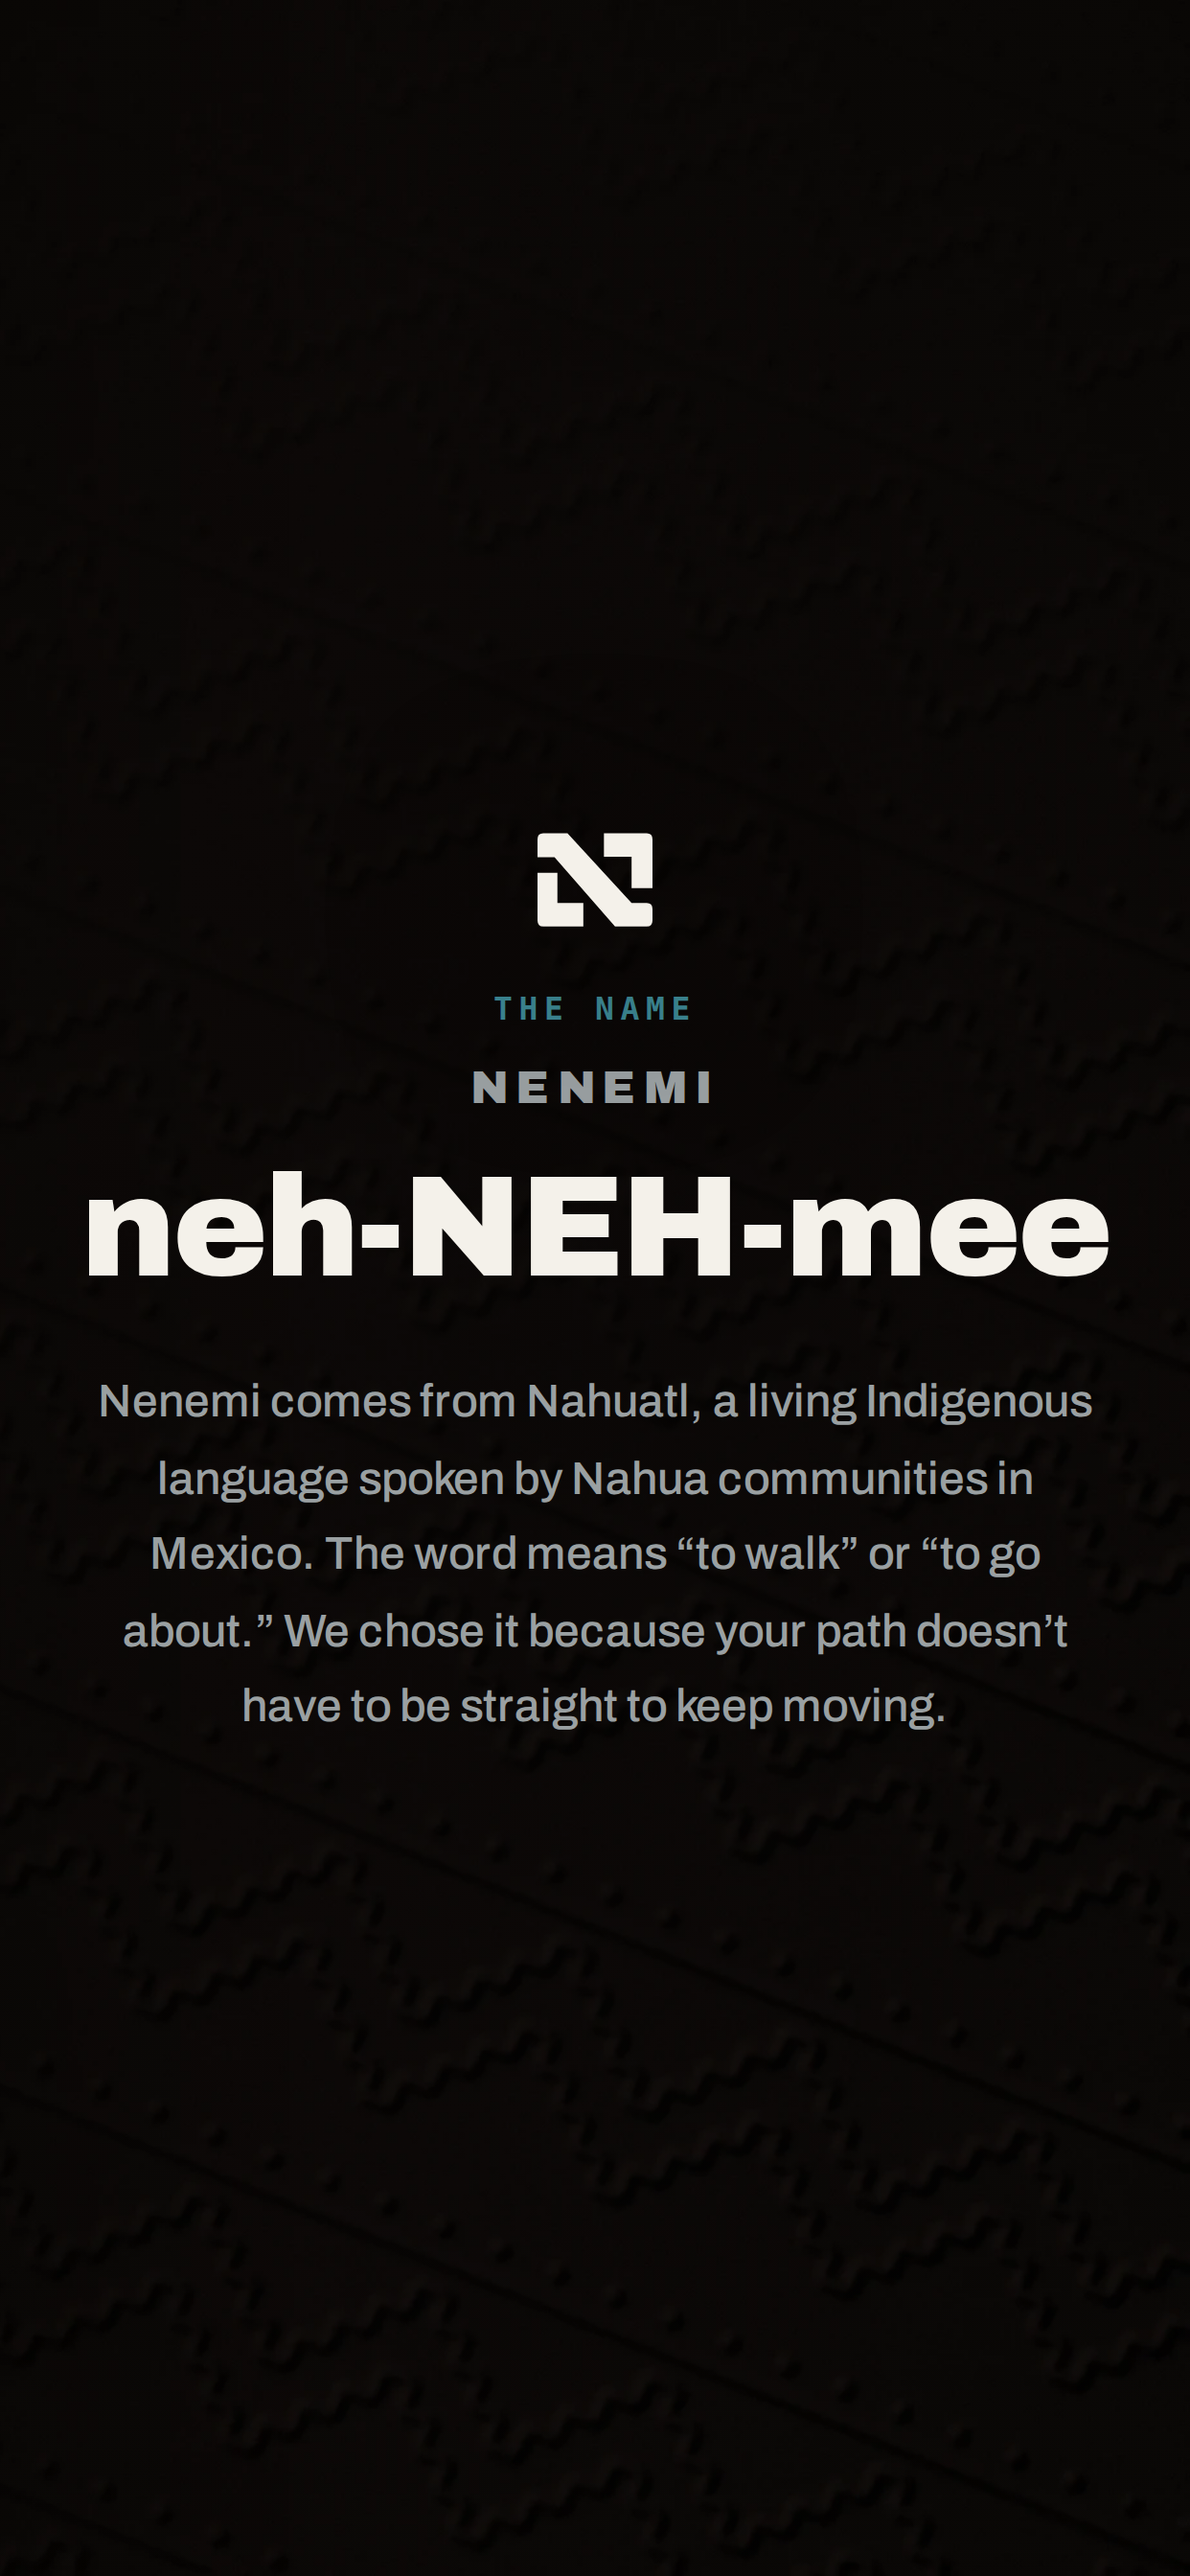
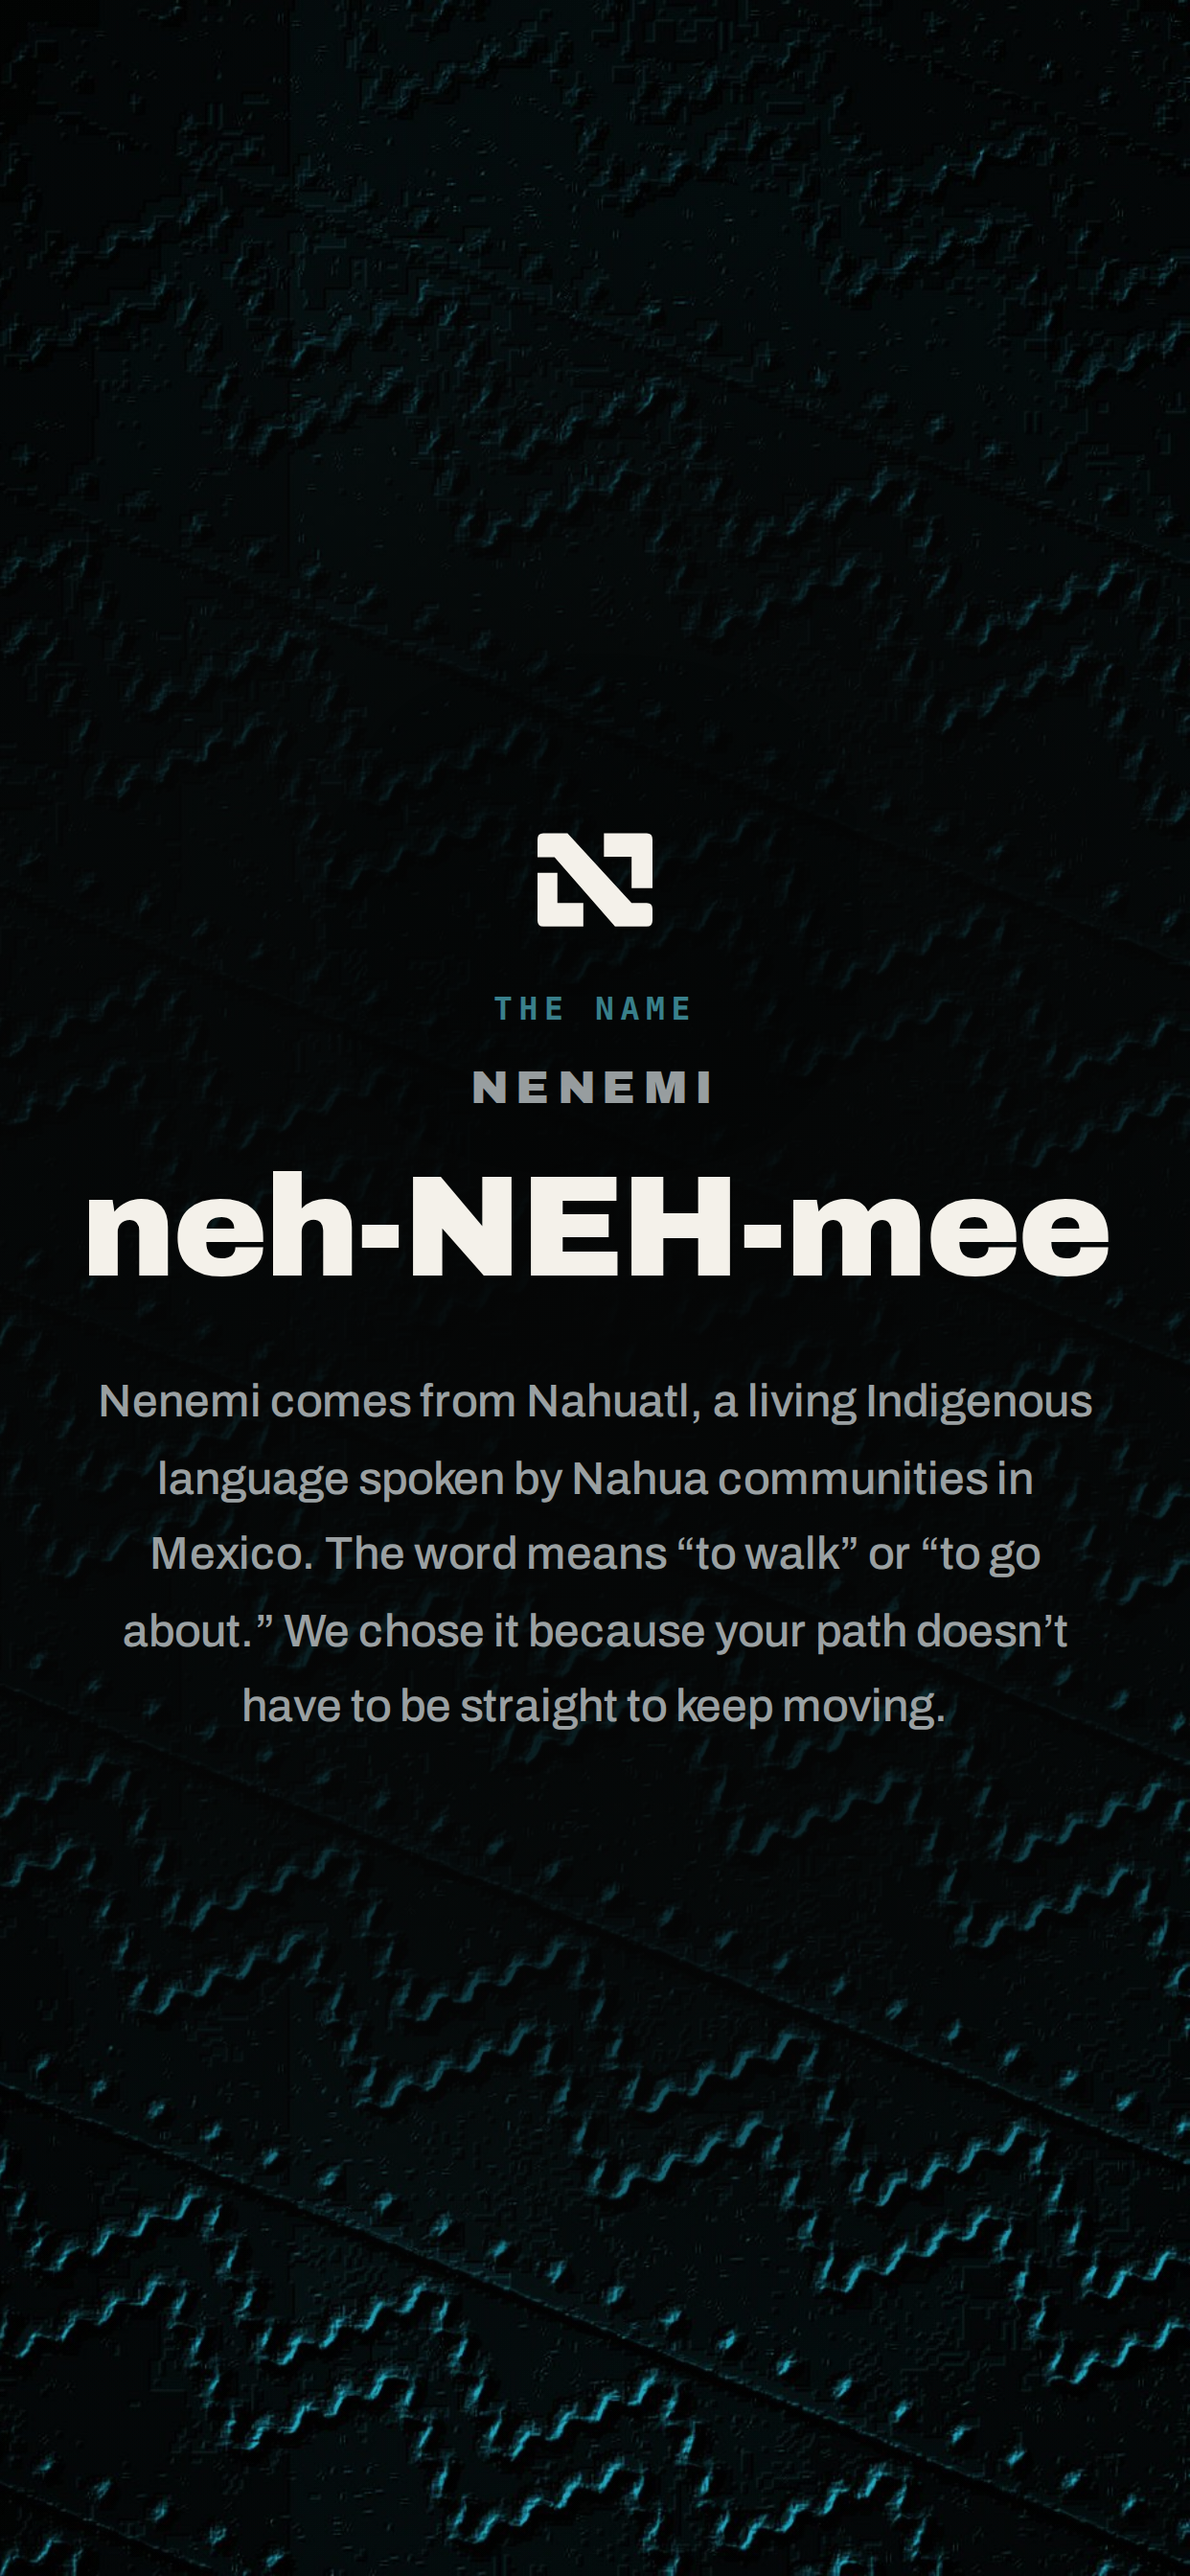
Name block background: teal-lit fret texture (site footer and store slide 7)
Claude-Session: https://claude.ai/code/session_01DU2AkZfE8CD8FTr6ig2LVy

diff --git a/welcome.html b/welcome.html
@@ -181,7 +181,7 @@
 
     /* footer */
     .reveal{position:relative;z-index:1;background:var(--bg);box-shadow:0 34px 60px -6px rgba(0,0,0,.6),0 8px 20px rgba(0,0,0,.35)}
-    footer{background:#050404 url('/photos/texture/tex-fret.webp') right center/cover no-repeat;color:#fff;padding:84px 0 64px;position:fixed;left:0;right:0;bottom:0;z-index:0;overflow:hidden}
+    footer{background:#050404 url('/photos/texture/tex-fret-teal.jpg') right center/cover no-repeat;color:#fff;padding:84px 0 64px;position:fixed;left:0;right:0;bottom:0;z-index:0;overflow:hidden}
     footer:before{content:"";position:absolute;inset:0;background:radial-gradient(ellipse 60% 70% at 50% 50%,rgba(8,6,5,.55),rgba(8,6,5,.15));z-index:0}
     .foot-tex{display:none}
     footer .wrap{position:relative;z-index:1}
